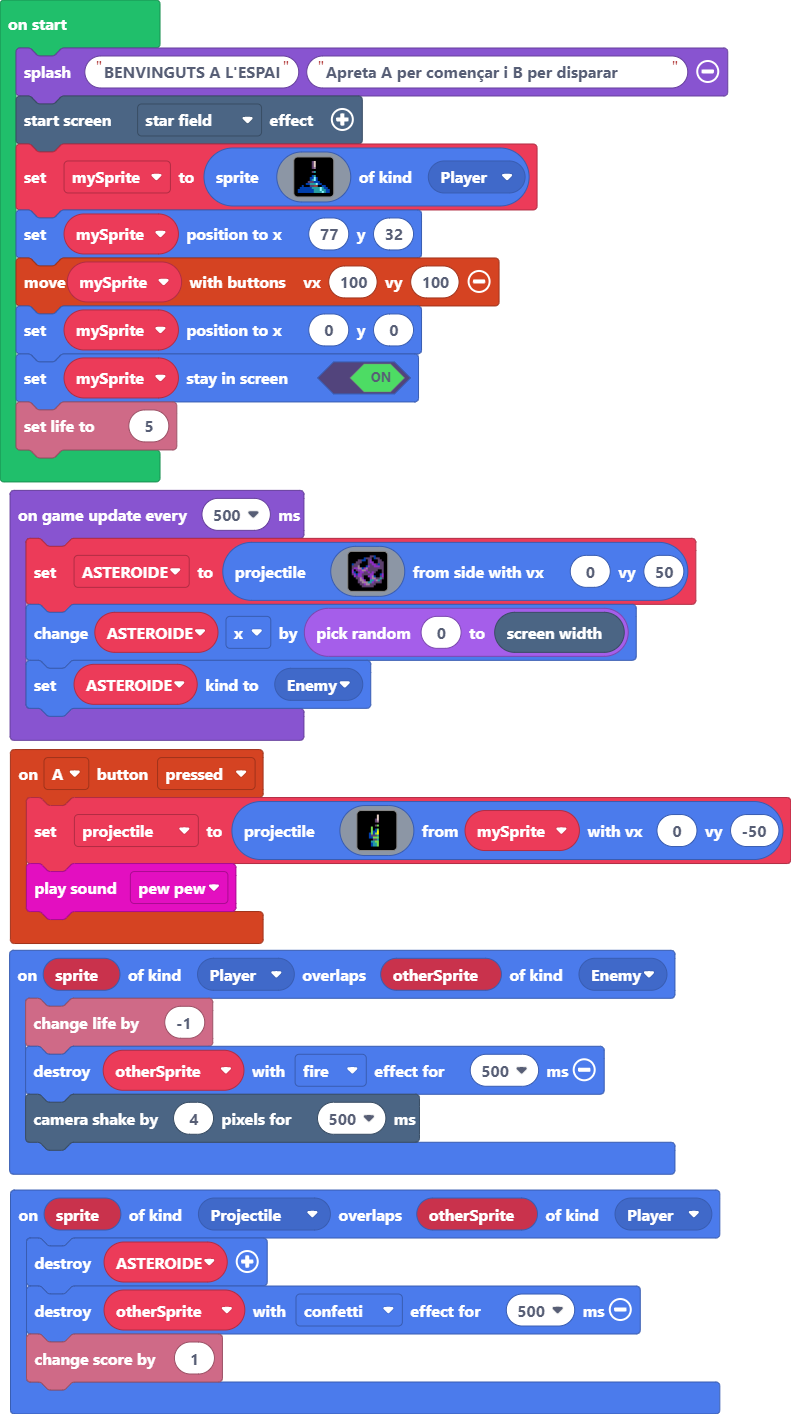
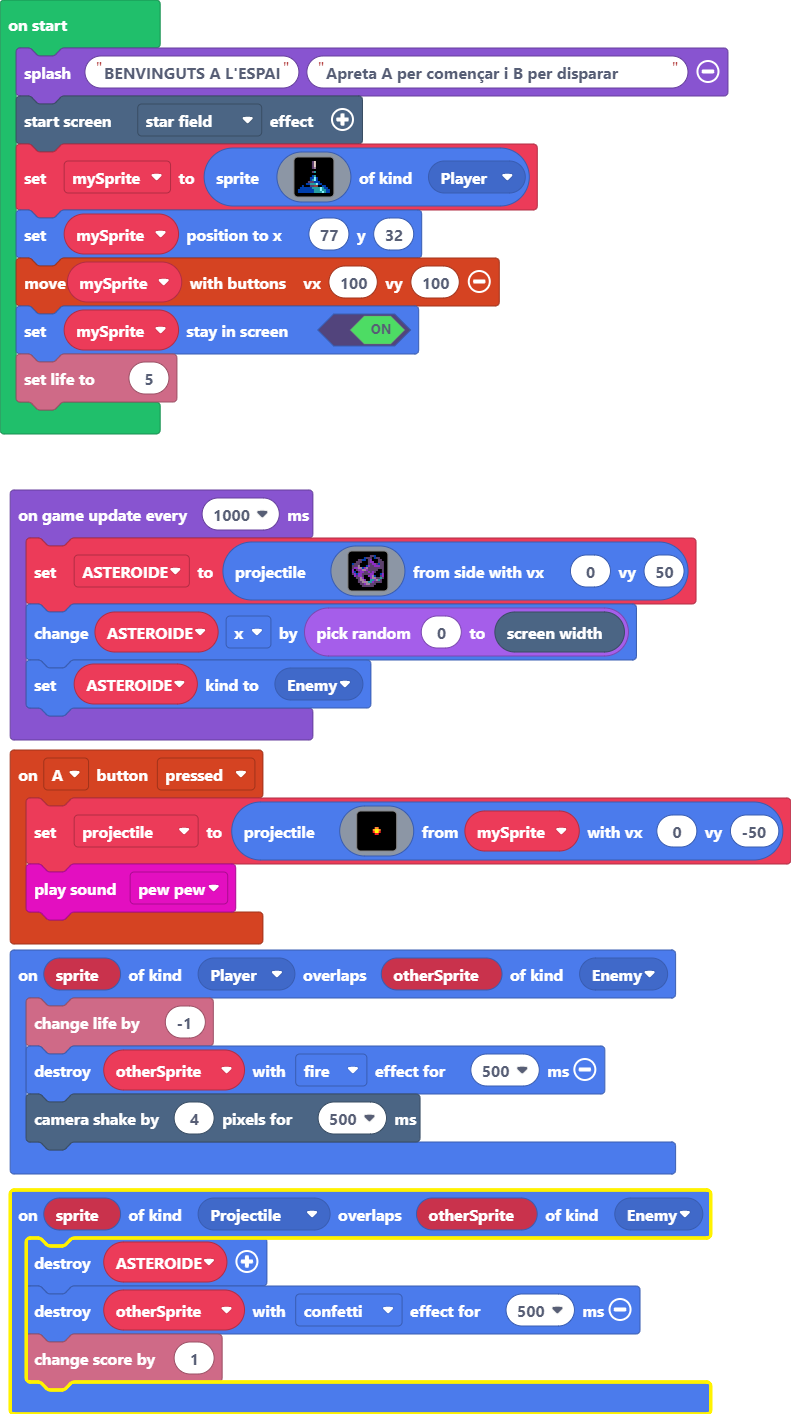
Update main.blocks, main.ts

diff --git a/main.ts b/main.ts
@@ -1,25 +1,25 @@
 controller.A.onEvent(ControllerButtonEvent.Pressed, function () {
     projectile = sprites.createProjectileFromSprite(img`
-        . . . . . . . . d . . . . . . . 
-        . . . . . . . . d . . . . . . . 
-        . . . . . . . c d . . . . . . . 
-        . . . . . . . c b . . . . . . . 
-        . . . . . . . f f . . . . . . . 
-        . . . . . . . c 7 . . . . . . . 
-        . . . . . 7 . f f . . . . . . . 
-        . . . . . 7 . 8 7 . . . . . . . 
-        . . . . . 7 8 8 5 . . . . . . . 
-        . . . . 8 7 8 7 5 . . . . . . . 
-        . . . . 8 c c c 6 . . . . . . . 
-        . . . . 8 8 7 7 7 . . . . . . . 
-        . . . . . f c c 6 . . . . . . . 
-        . . . . . 6 6 7 7 . . . . . . . 
-        . . . . . 8 6 6 7 . . . . . . . 
-        . . . . . 8 6 6 7 . . . . . . . 
+        . . . . . . . . . . . . . . . . 
+        . . . . . . . . . . . . . . . . 
+        . . . . . . . . . . . . . . . . 
+        . . . . . . . . . . . . . . . . 
+        . . . . . . . . . . . . . . . . 
+        . . . . . . . . . . . . . . . . 
+        . . . . . . . 4 4 . . . . . . . 
+        . . . . . . 4 5 5 4 . . . . . . 
+        . . . . . . 2 5 5 2 . . . . . . 
+        . . . . . . . 2 2 . . . . . . . 
+        . . . . . . . . . . . . . . . . 
+        . . . . . . . . . . . . . . . . 
+        . . . . . . . . . . . . . . . . 
+        . . . . . . . . . . . . . . . . 
+        . . . . . . . . . . . . . . . . 
+        . . . . . . . . . . . . . . . . 
         `, mySprite, 0, -50)
     music.pewPew.play()
 })
-sprites.onOverlap(SpriteKind.Projectile, SpriteKind.Player, function (sprite, otherSprite) {
+sprites.onOverlap(SpriteKind.Projectile, SpriteKind.Enemy, function (sprite, otherSprite) {
     ASTEROIDE.destroy()
     otherSprite.destroy(effects.confetti, 500)
     info.changeScoreBy(1)
@@ -54,10 +54,9 @@ mySprite = sprites.create(img`
     `, SpriteKind.Player)
 mySprite.setPosition(77, 32)
 controller.moveSprite(mySprite, 100, 100)
-mySprite.setPosition(0, 0)
 mySprite.setStayInScreen(true)
 info.setLife(5)
-game.onUpdateInterval(500, function () {
+game.onUpdateInterval(1000, function () {
     ASTEROIDE = sprites.createProjectileFromSide(img`
         . . . . . . . . . c c 8 . . . . 
         . . . . . . 8 c c c f 8 c c . . 
